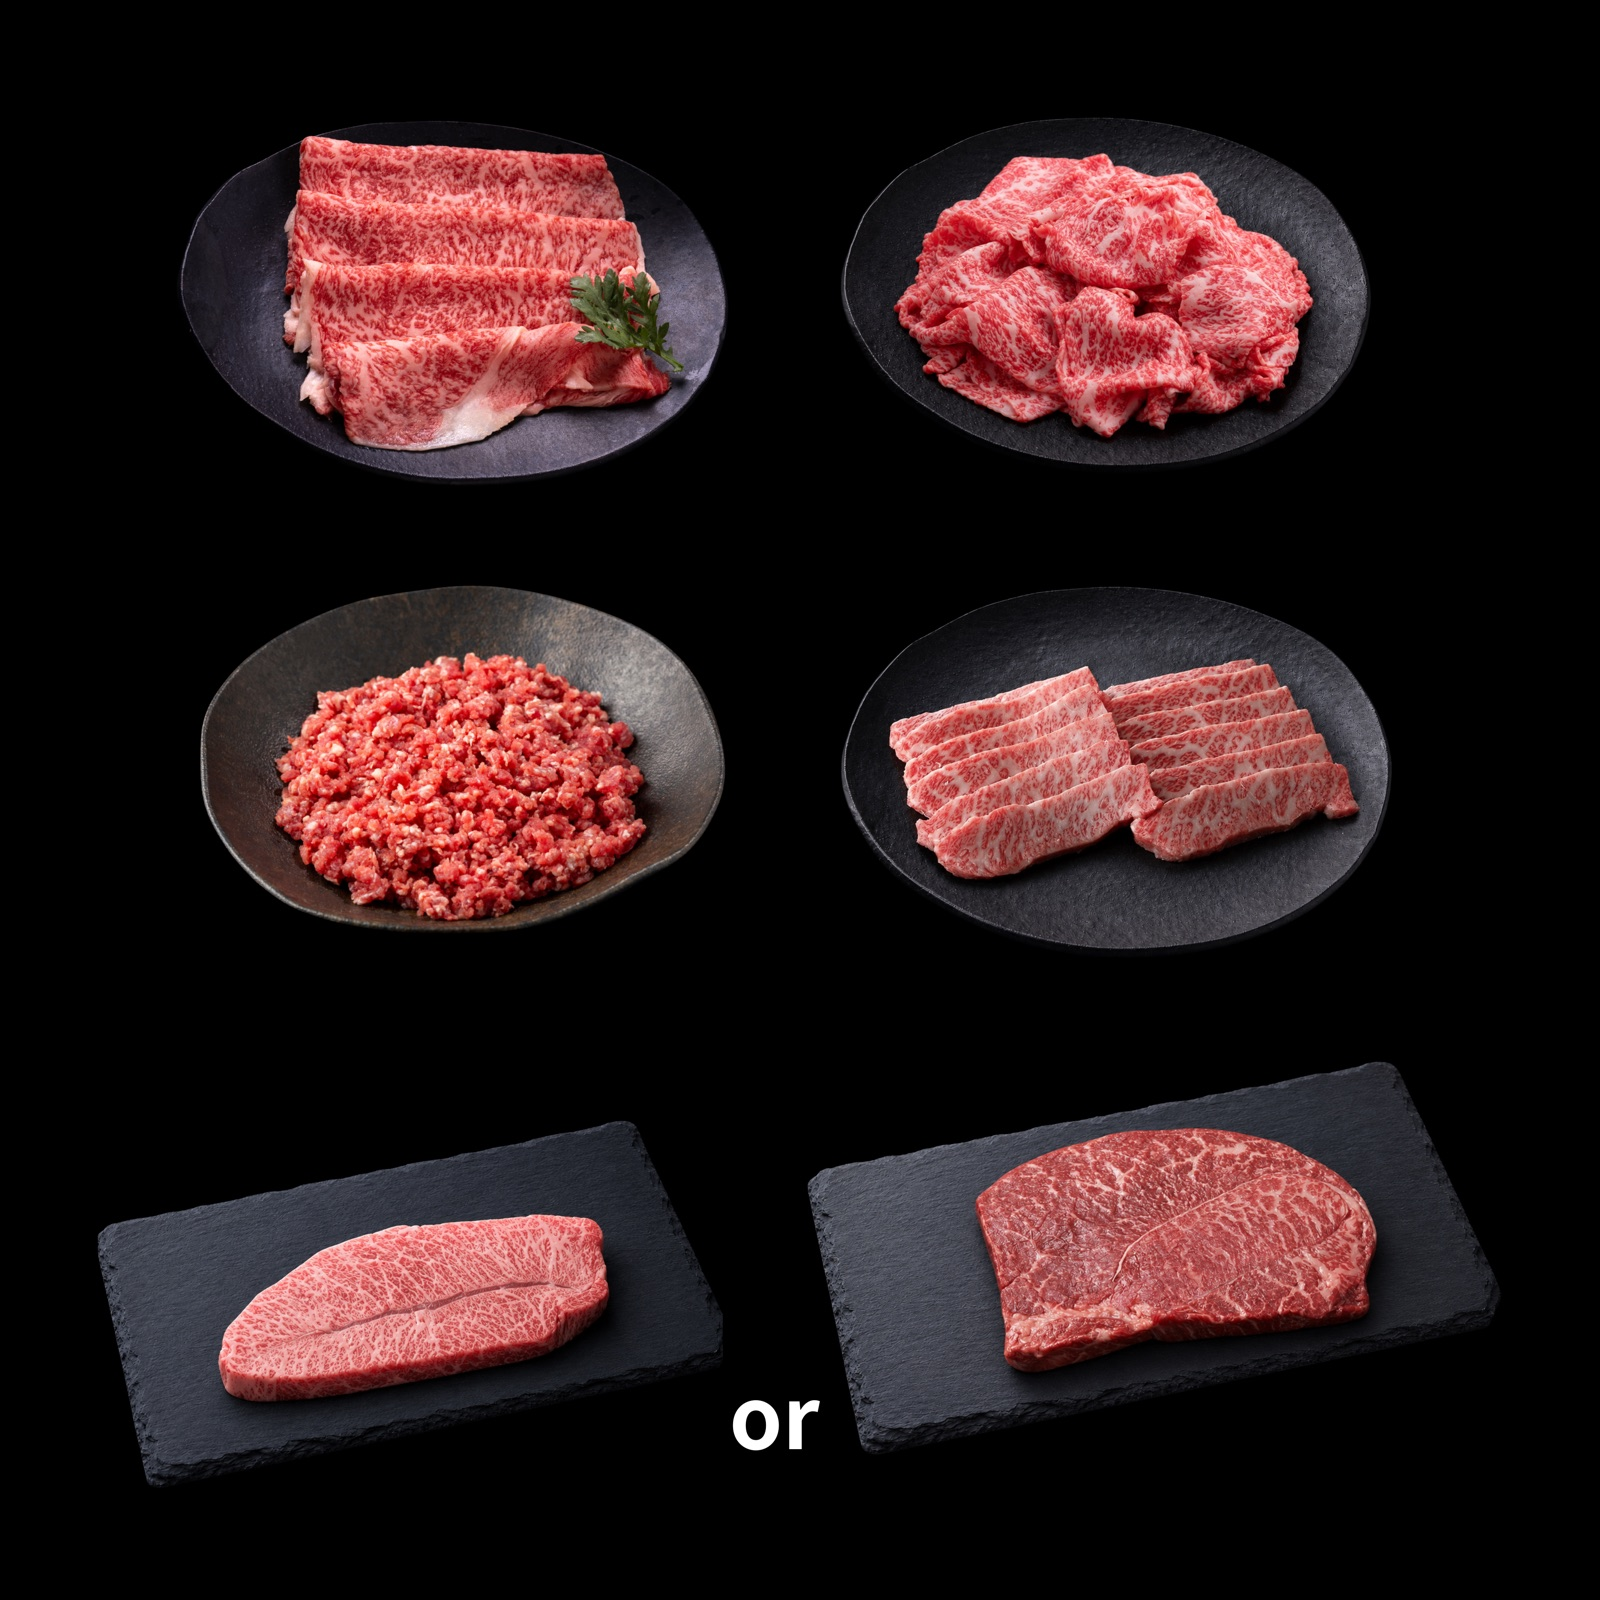
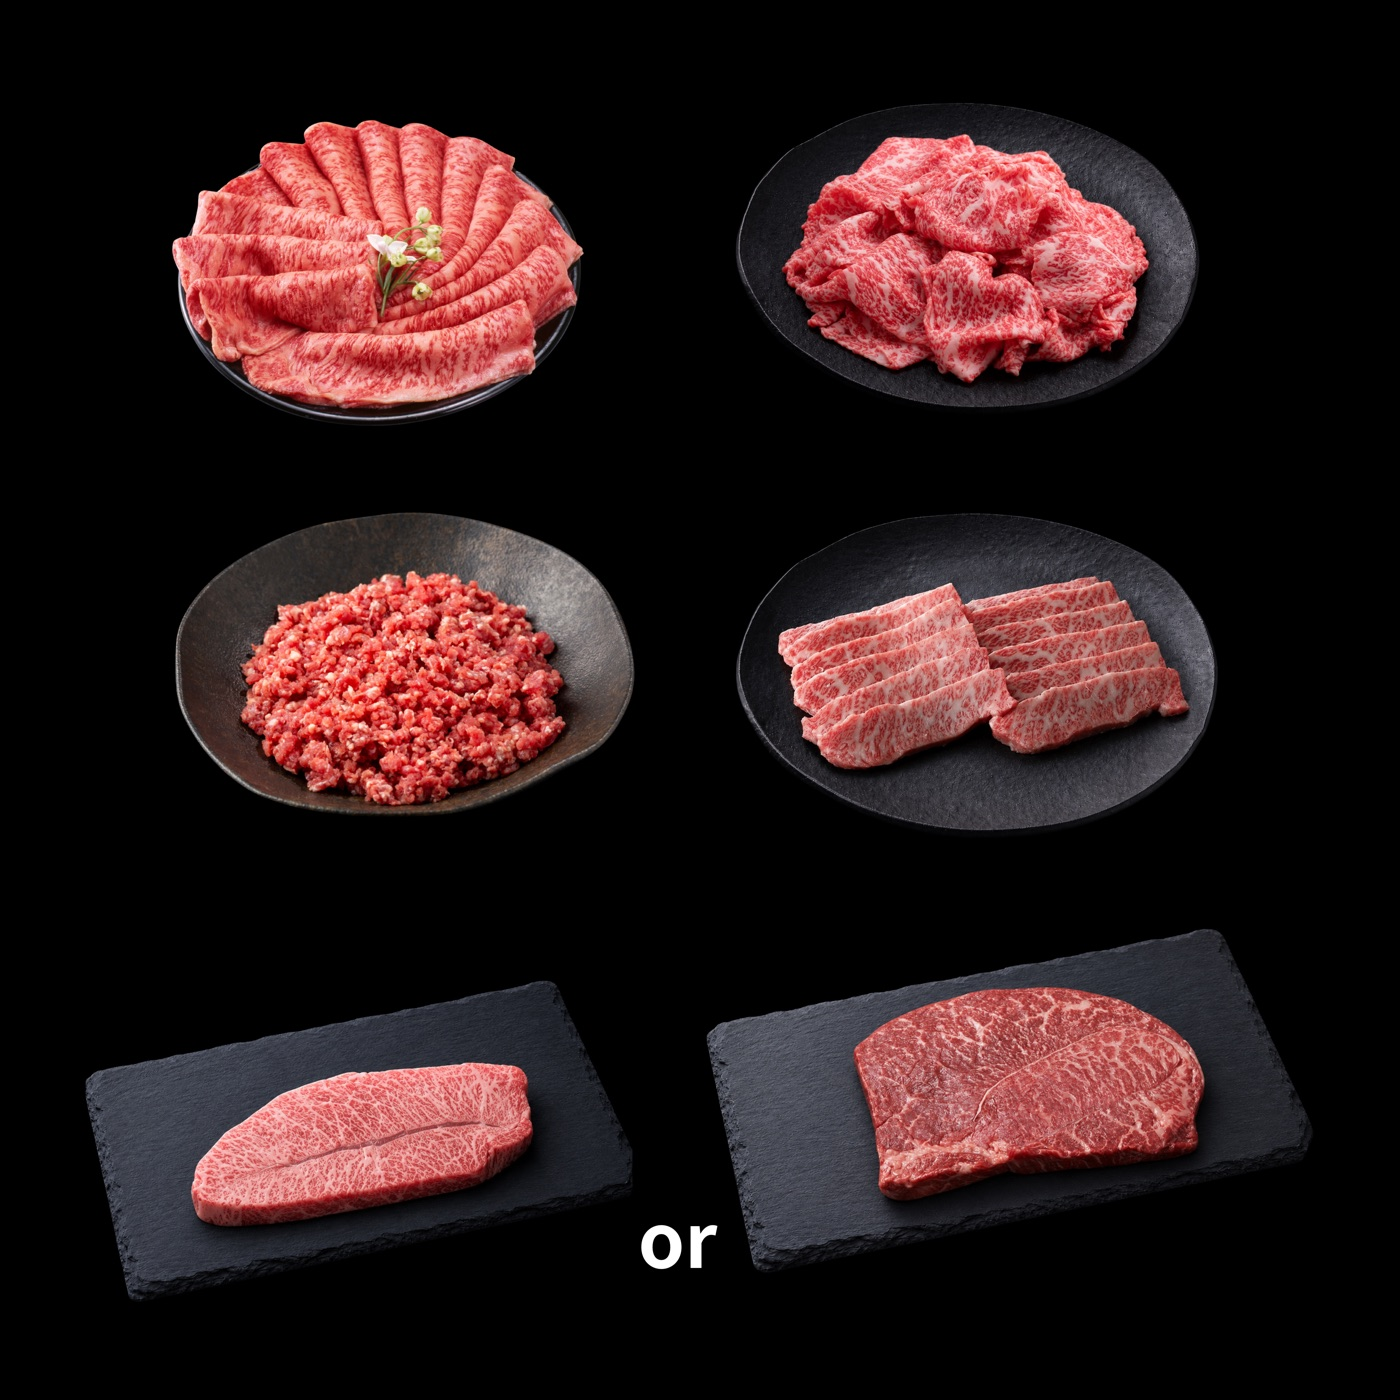
セット2品の商品画像を正式版に差し替え
- chicken-set.jpg/.webp を田崎さん提供の原本(平飼い鶏肉セット.png 1254px)から再生成
- fuzoroi-set.jpg/.webp を新しい中身の写真(不揃い品セット②.png 3750px)に差し替え
  （霜降スライス／赤身スライス／和牛ミンチ／バラ焼肉／ステーキ）
- いずれも長辺1400pxのJPEG + WebP
- sw.js の CACHE_VERSION を 335 に更新

Changed region(s): [[0.0921, 0.0614, 0.4607, 0.3071]]

diff --git a/sw.js b/sw.js
@@ -3,7 +3,7 @@
    - Strategy: network-first for HTML/JS/CSS, cache-first for images & fonts
    - Version bump invalidates old cache
    ============================================================ */
-const CACHE_VERSION = 'eda-v2026-09-20-334-chicken-set';
+const CACHE_VERSION = 'eda-v2026-09-20-335-set-images';
 const CORE_ASSETS = [
   './',
   'index.html',
